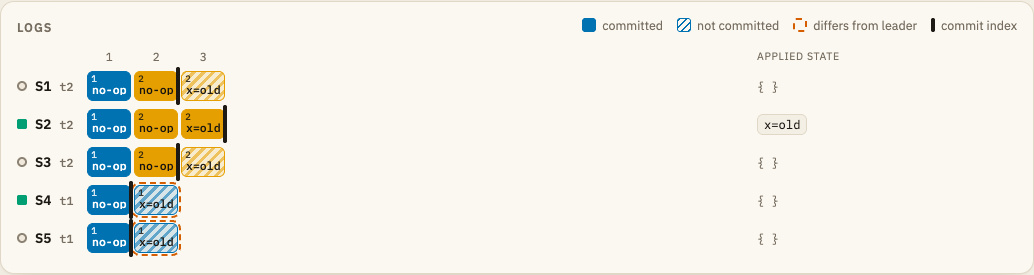
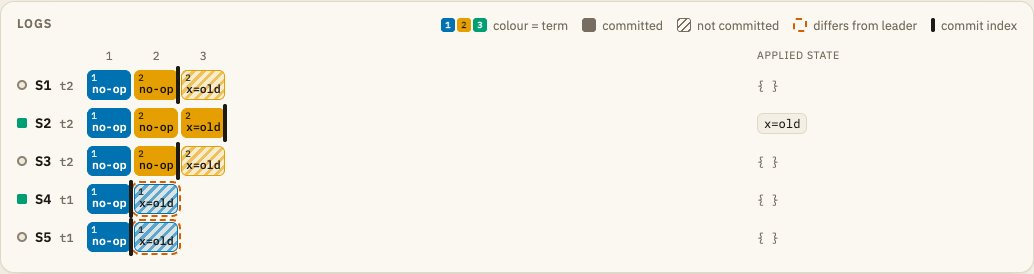
Demo GIF, term colour key, scenario intro caption, equivalent-mutant evidence
- README opens with docs/demo.gif (leader crash and re-election), recorded
  frame by frame by scripts/record_gif.py so motion is smooth.
- Log legend: a "colour = term" key; committed / not committed swatches are
  neutral, since cell colour means the term, not commit state.
- While a scenario's first step runs, the panel shows the scenario summary
  instead of the previous Free play text.
- commitIndexNoMin: instrumented 60,000 fuzz seeds; the mutated rule changed
  commitIndex 265 times and never over an entry that differed from the
  leader's. Documented as an equivalent mutant; flag comment corrected.

diff --git a/src/raft/types.ts b/src/raft/types.ts
@@ -96,7 +96,7 @@ export const isClientEndpoint = (e: Endpoint): boolean => e < 0;
 
 /**
  * Bugs that can be injected for the mutation tests. Each one is a single,
- * realistic mistake; the fuzzer must catch every one of them.
+ * realistic mistake; the fuzzer catches every one that can change behaviour.
  */
 export interface Mutations {
   /** Commit any entry once replicated on a majority, ignoring its term (the Figure 8 bug). */
@@ -111,7 +111,10 @@ export interface Mutations {
   skipConsistencyCheck?: boolean;
   /** On a conflicting entry, overwrite just that slot instead of deleting it and everything after it. */
   overwriteWithoutTruncate?: boolean;
-  /** Follower sets commitIndex = leaderCommit, not min(leaderCommit, index of last new entry). */
+  /**
+   * Follower caps commitIndex at its own last log index, not at the last entry the request carried.
+   * An equivalent mutant here: no reachable state makes it commit a wrong entry (see README).
+   */
   commitIndexNoMin?: boolean;
   /** Count vote replies without checking they are for the current term. */
   countStaleVotes?: boolean;

diff --git a/src/style.css b/src/style.css
@@ -997,11 +997,26 @@ input[type='range'] {
   height: 14px;
   border-radius: 3px;
   display: inline-block;
-  background: var(--append);
+  background: var(--muted);
 }
+/* Committed vs not is shown by fill style; colour means the term (see .term-chips). */
 .swatch.uncommitted {
-  background: repeating-linear-gradient(135deg, var(--append) 0 2px, transparent 2px 5px);
-  border: 1.5px solid var(--append);
+  background: repeating-linear-gradient(135deg, var(--muted) 0 2px, transparent 2px 5px);
+  border: 1.5px solid var(--muted);
+}
+.term-chips {
+  display: inline-flex;
+  gap: 2px;
+}
+.term-chips span {
+  width: 14px;
+  height: 14px;
+  border-radius: 3px;
+  display: inline-grid;
+  place-items: center;
+  background: var(--cell);
+  color: var(--cell-ink);
+  font: 600 0.55rem/1 var(--mono);
 }
 .swatch.conflict {
   background: transparent;

diff --git a/index.html b/index.html
@@ -156,6 +156,7 @@
         <div class="panel-head">
           <h2 id="logs-title">Logs</h2>
           <ul class="key">
+            <li title="Each entry is coloured by the term it was created in, and prints that term in its corner"><span class="term-chips" aria-hidden="true"><span>1</span><span>2</span><span>3</span></span>colour = term</li>
             <li><span class="swatch committed"></span>committed</li>
             <li><span class="swatch uncommitted"></span>not committed</li>
             <li><span class="swatch conflict"></span>differs from leader</li>

diff --git a/src/ui/logtable.ts b/src/ui/logtable.ts
@@ -50,6 +50,11 @@ export class LogTable {
   private stickToEnd = true;
 
   constructor(root: HTMLElement) {
+    // The legend's term chips use the same palette as the cells.
+    document.querySelectorAll<HTMLElement>('.term-chips span').forEach((el, i) => {
+      el.style.setProperty('--cell', termColor(i + 1));
+      el.style.setProperty('--cell-ink', termInk(i + 1));
+    });
     root.replaceChildren();
     this.labels = document.createElement('div');
     this.labels.className = 'lt-col';

diff --git a/src/ui/app.ts b/src/ui/app.ts
@@ -205,6 +205,8 @@ export class App {
     }
     $('narr-actions').hidden = false;
     $('narration-title').textContent = def.title;
+    // Until the first step finishes, say what the scenario is about rather than leaving the old text up.
+    $('caption').textContent = def.summary;
     this.beginStep();
     if (matchMedia('(max-width: 900px)').matches) $('stage-panel').scrollIntoView({ block: 'start', behavior: this.reducedMotion ? 'auto' : 'smooth' });
   }

diff --git a/scripts/record_gif.py b/scripts/record_gif.py
@@ -1,0 +1,83 @@
+"""Record docs/demo.gif: the "Leader crash and re-election" scenario, frame by frame.
+
+Usage: python scripts/record_gif.py [base_url]
+Serve a build first, e.g. `npm run build && npx vite preview --port 4173`.
+Needs Playwright (with Chromium) and Pillow.
+"""
+import io
+import sys
+from pathlib import Path
+
+from PIL import Image
+from playwright.sync_api import sync_playwright
+
+BASE = sys.argv[1] if len(sys.argv) > 1 else 'http://localhost:4173/'
+OUT = Path(__file__).resolve().parent.parent / 'docs' / 'demo.gif'
+ARGS = ['--use-angle=metal', '--enable-gpu', '--ignore-gpu-blocklist']
+VIEW = (1440, 900)
+WIDTH = 960          # output width in pixels
+FRAME_MS = 60        # output frame length (about 16 fps)
+SIM_BUSY = 2.5       # simulated ms per frame while messages are in flight (a 20 ms hop takes 8 frames)
+SIM_QUIET = 12.0     # ... and while the cluster is only waiting on timers
+HOLD_MS = 2800       # how long each caption stays up before Next
+TAIL_MS = 3000       # hold on the last frame
+
+
+def grab(page, clip) -> Image.Image:
+    png = page.screenshot(type='png', clip=clip)
+    img = Image.open(io.BytesIO(png)).convert('RGB')
+    return img.resize((WIDTH, round(WIDTH * img.height / img.width)), Image.LANCZOS)
+
+
+def main() -> None:
+    frames: list[tuple[Image.Image, int]] = []
+    with sync_playwright() as p:
+        browser = p.chromium.launch(headless=True, args=ARGS, channel='chromium')
+        ctx = browser.new_context(viewport={'width': VIEW[0], 'height': VIEW[1]}, device_scale_factor=1, color_scheme='light')
+        page = ctx.new_page()
+        page.goto(BASE)
+        page.wait_for_function('window.__sahmati && window.__sahmati.app.frames > 2')
+        page.evaluate('document.fonts.ready')
+        # Time is driven from here, one fixed slice per frame, so the GIF is smooth
+        # however long a screenshot takes. Speed 0 freezes the page's own clock.
+        page.evaluate("window.__sahmati.app.speed = 0; window.__sahmati.app.loadScenario('leader-crash')")
+        bottom = page.evaluate("document.getElementById('logs-title').closest('section').getBoundingClientRect().top - 6")
+        clip = {'x': 0, 'y': 0, 'width': VIEW[0], 'height': bottom}
+        tick = """async (dt) => {
+            window.__sahmati.app.advance(dt);
+            await new Promise(r => requestAnimationFrame(() => requestAnimationFrame(r)));
+        }"""
+        page.evaluate(tick, 0)
+        while True:
+            sc = page.evaluate('window.__sahmati.state().scenario')
+            if sc is None:
+                break
+            if sc['running']:
+                busy = page.evaluate('window.__sahmati.app.sim.inFlight.size > 0')
+                page.evaluate(tick, SIM_BUSY if busy else SIM_QUIET)
+                frames.append((grab(page, clip), FRAME_MS))
+                continue
+            page.evaluate(tick, 0)
+            last = sc['index'] + 1 >= sc['steps']
+            frames.append((grab(page, clip), TAIL_MS if last else HOLD_MS))
+            if last:
+                break
+            page.evaluate('window.__sahmati.app.nextStep()')
+        browser.close()
+
+    imgs = [f for f, _ in frames]
+    durations = [d for _, d in frames]
+    # One shared palette, built from frames across the whole run, keeps colours true and steady.
+    sample = imgs[:: max(1, len(imgs) // 12)]
+    W, H = sample[0].size
+    sheet = Image.new('RGB', (W, H * len(sample)))
+    for i, im in enumerate(sample):
+        sheet.paste(im, (0, i * H))
+    palette = sheet.quantize(colors=255, method=Image.Quantize.MEDIANCUT)
+    q = [im.quantize(palette=palette, dither=Image.Dither.NONE) for im in imgs]
+    q[0].save(OUT, save_all=True, append_images=q[1:], duration=durations, loop=0, optimize=True, disposal=1)
+    print(f'{OUT.relative_to(OUT.parent.parent)}: {len(q)} frames, {sum(durations) / 1000:.1f} s, {OUT.stat().st_size / 1024:.0f} KiB')
+
+
+if __name__ == '__main__':
+    main()

diff --git a/README.md b/README.md
@@ -9,6 +9,10 @@ An interactive simulator of the [Raft consensus algorithm](https://raft.github.i
 
 **[Open the simulator →](https://samarthjaiswal.github.io/sahmati/)**
 
+![The "Leader crash and re-election" scenario: two candidates split the first election and S1 wins; S1 crashes; S5 times out, wins term 2 with the votes of the three live followers, commits a write with one server down; S1 restarts and is brought back in line](docs/demo.gif)
+
+The same run, frozen mid-replication:
+
 ![Five servers mid-replication: the leader S1 sends AppendEntries carrying a new entry to four followers; the log table below shows five committed entries and one that is not yet committed](docs/hero.png)
 
 The Raft core is about 600 lines of TypeScript with no DOM code in it. It is checked by unit tests for each rule in the paper's Figure 2, by a fuzzer that checks all five of Raft's safety properties after every event, by a liveness check and a linearizability checker, and by mutation tests that inject known bugs into the implementation to show that the fuzzer catches them.
@@ -28,7 +32,7 @@ The leader accepts client commands, appends them to its **log** and replicates t
 - **Split the network** by dragging a server away from the others, or onto another server's side. Presets: isolate the leader, put the leader in a minority, or leave no majority anywhere.
 - **Change the network**: message loss from 0 to 50%, latency from 5 to 80 ms, and the PreVote and fast-backtracking options.
 - **Send client commands** (`x=5`, `del x`, `get x`) to any server or to whichever one the client believes is the leader.
-- **Read the logs**: each server's log as cells coloured and numbered by term, hatched until committed, with the commit index drawn as a bar, entries that differ from the leader's outlined, and each server's applied key-value state.
+- **Read the logs**: each server's log as cells coloured and numbered by term (the key shows which colour is which), solid once committed and hatched until then, with the commit index drawn as a bar, entries that differ from the leader's outlined, and each server's applied key-value state.
 - **Follow the event log**, filtered by elections, replication, client, faults or individual messages.
 - **Control time**: play, pause, step one event at a time, and run from 0.1× to 10× speed. At 1×, a 20 ms message takes 0.2 s to cross the screen.
 - **Share a run**: the link encodes the seed, the configuration and every action you took, so opening it replays the run to the identical state.
@@ -170,7 +174,9 @@ Each mutation is a one-line, realistic bug behind a test-only flag (`mutations` 
 
 All seven are caught, each in under half a second. The Figure 8 bug is the hardest: it needs a leader whose entry stays on one server, a second leader elected without it, the first leader re-elected and replicating its old entry to a majority, and a crash in the one round trip before its own no-op lands. The leader-churn fault and swarm testing were added to the fuzzer for this bug; before them it survived 5,000 seeds.
 
-One more mutation is in the code and not in the table, because the fuzzer **does not** catch it: a follower that sets `commitIndex = leaderCommit` instead of `min(leaderCommit, index of last new entry)`. Exploiting it needs a follower whose log matches the leader up to some index but holds stale entries after it that the leader's AppendEntries never reach. In this implementation a leader's requests within one term never leave a follower in that state, so in 10,000 seeds it never happened. A unit test (`raft-rules.test.ts`) shows the mutated rule misbehaving directly.
+One more mutation is in the code and not in the table, because no test of behaviour can catch it here: a follower that caps its new `commitIndex` at the end of its own log, `min(leaderCommit, last log index)`, instead of at the last entry the request carried, `min(leaderCommit, index of last new entry)`. The two differ only when the follower holds entries past the end of the request. That is harmful only if those entries differ from the leader's, and in this implementation that never happens. A leader's first successful AppendEntries to a follower whose log has diverged starts at the first conflicting index, so the stale suffix is deleted before the commit rule runs. The requests that do end early are late or reordered ones, and by the time they arrive the entries after them came from the same leader.
+
+Measured rather than argued: with the commit rule instrumented over 60,000 fuzz seeds (19 million AppendEntries), the mutated rule would have produced a different `commitIndex` 265 times. In the 261 of those where the sender was still leader to compare against, every extra entry was identical to the leader's, so the mutation would have committed nothing wrong. In mutation-testing terms it is an *equivalent mutant* for this implementation. It would become a real bug in a design where a follower can keep a stale suffix past a request, for example one that pipelines requests from an optimistic `nextIndex`. A unit test (`raft-rules.test.ts`) pins the correct rule by building that state by hand.
 
 ### Determinism and share links
 
@@ -209,8 +215,8 @@ src/
   ui/             the page: stage (SVG), log table, event timeline, controller
   main.ts, style.css
 tests/            Vitest: rules, scenarios, determinism, linearizability, fuzz, mutations
-scripts/          e2e.py and capture.py (Python Playwright)
-docs/             screenshots
+scripts/          e2e.py, capture.py and record_gif.py (Python Playwright)
+docs/             screenshots and the demo GIF
 ```
 
 The front end is plain TypeScript and SVG with no framework: the page is one canvas-like view plus a few panels, and updating them directly each frame was simpler than introducing a rendering library. Fonts (IBM Plex Sans, Plex Mono, Plex Sans Devanagari and Fraunces) are bundled through Fontsource, so the site makes no third-party requests. The production bundle is 73 KB of JavaScript (24 KB gzipped) and 22 KB of CSS (6 KB gzipped), plus fonts.
@@ -239,6 +245,7 @@ python scripts/e2e.py http://localhost:8765/sahmati/
 
 npm run build && npx vite preview --port 4173 &
 python scripts/capture.py http://localhost:4173/
+python scripts/record_gif.py http://localhost:4173/   # docs/demo.gif, also needs Pillow
 ```
 
 Pushing to `main` runs CI (typecheck, tests, both builds) and deploys to GitHub Pages.
